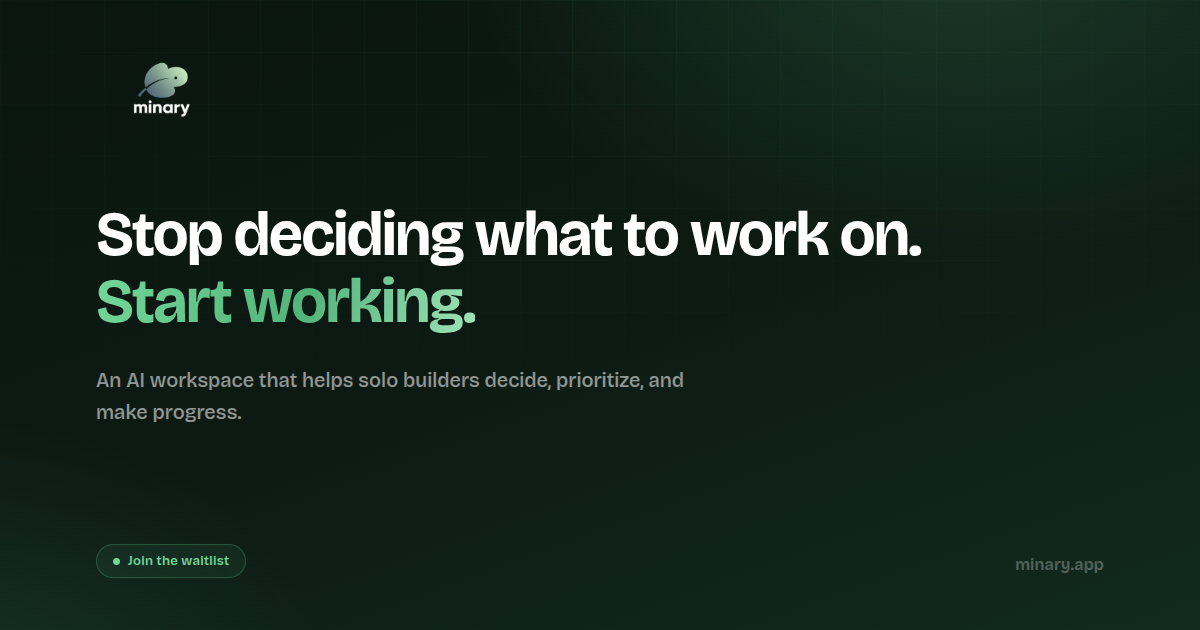
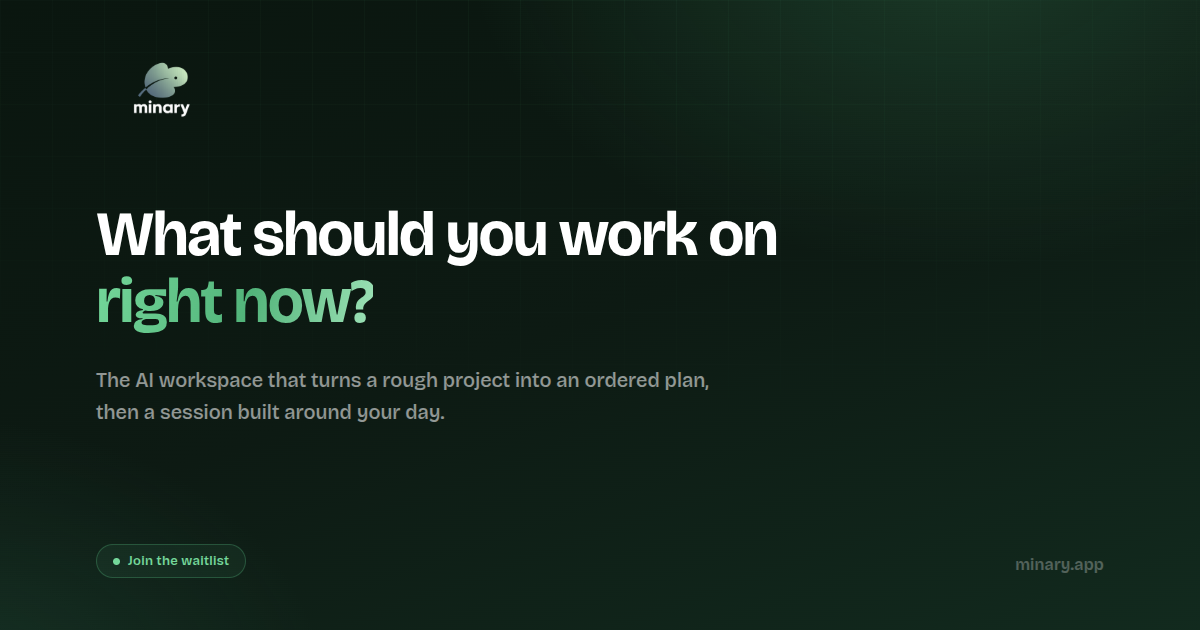
fix: align og-cover copy with the current hero headline

Changed region(s): [[0.0617, 0.3317, 0.7708, 0.5429], [0.0617, 0.573, 0.5858, 0.6635]]

diff --git a/og-image.html b/og-image.html
@@ -121,9 +121,9 @@
   <div class="content">
     <img src="public/logo.png" alt="Minary" class="logo">
 
-    <h1>Stop deciding what to work on.<br><span class="grad">Start working.</span></h1>
+    <h1>What should you work on<br><span class="grad">right now?</span></h1>
 
-    <p class="sub">An AI workspace that helps solo builders decide, prioritize, and make progress.</p>
+    <p class="sub">The AI workspace that turns a rough project into an ordered plan, then a session built around your day.</p>
 
     <div class="pill">
       <span class="dot"></span>